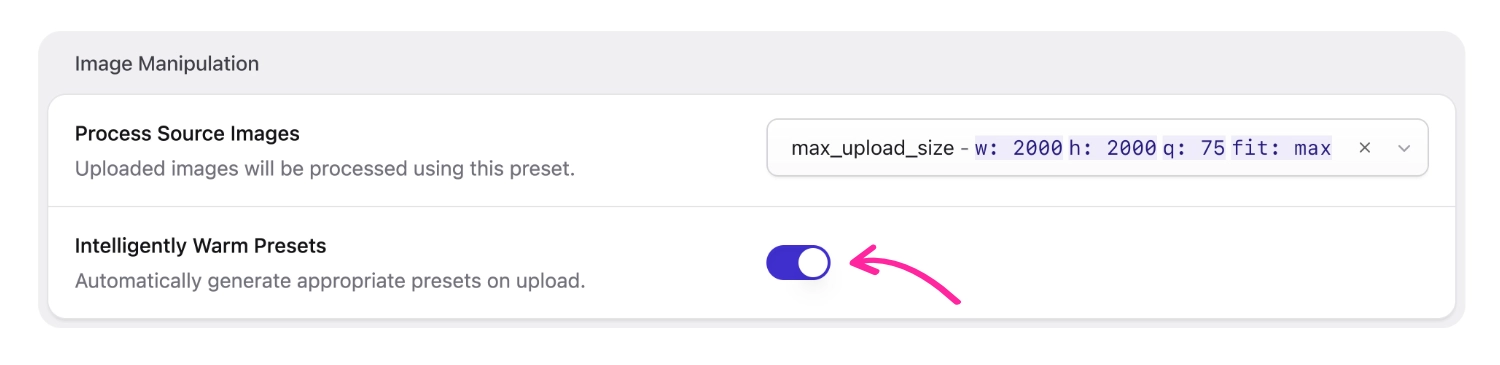
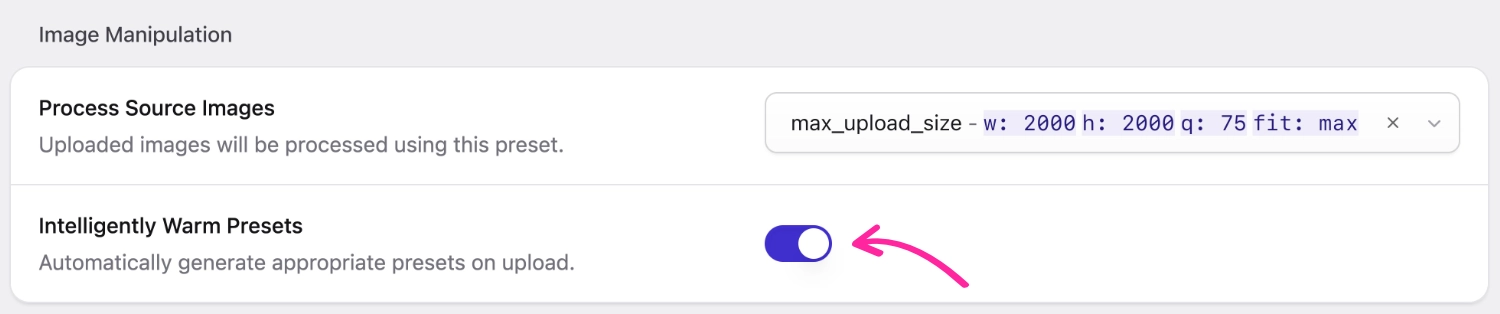
V6 screenshots finish - /frontend/image-manipulation

diff --git a/content/collections/pages/image-manipulation.md b/content/collections/pages/image-manipulation.md
@@ -132,7 +132,8 @@ By default, Statamic will do this "intelligently", which means it'll generate al
 However, you may wish to configure which presets are warmed in your asset container settings (or leave this option blank to disable warming altogether):
 
 <figure class="mt-0">
-    <img src="/img/glide-warm-specific-presets.png" alt="Glide Warm Specific Presets">
+    <img src="/img/glide-warm-specific-presets.webp" alt="Glide Warm Specific Presets" class="u-hide-in-dark-mode">
+    <img src="/img/glide-warm-specific-presets-dark.webp" alt="Glide Warm Specific Presets" class="u-hide-in-light-mode">
 </figure>
 
 :::tip
